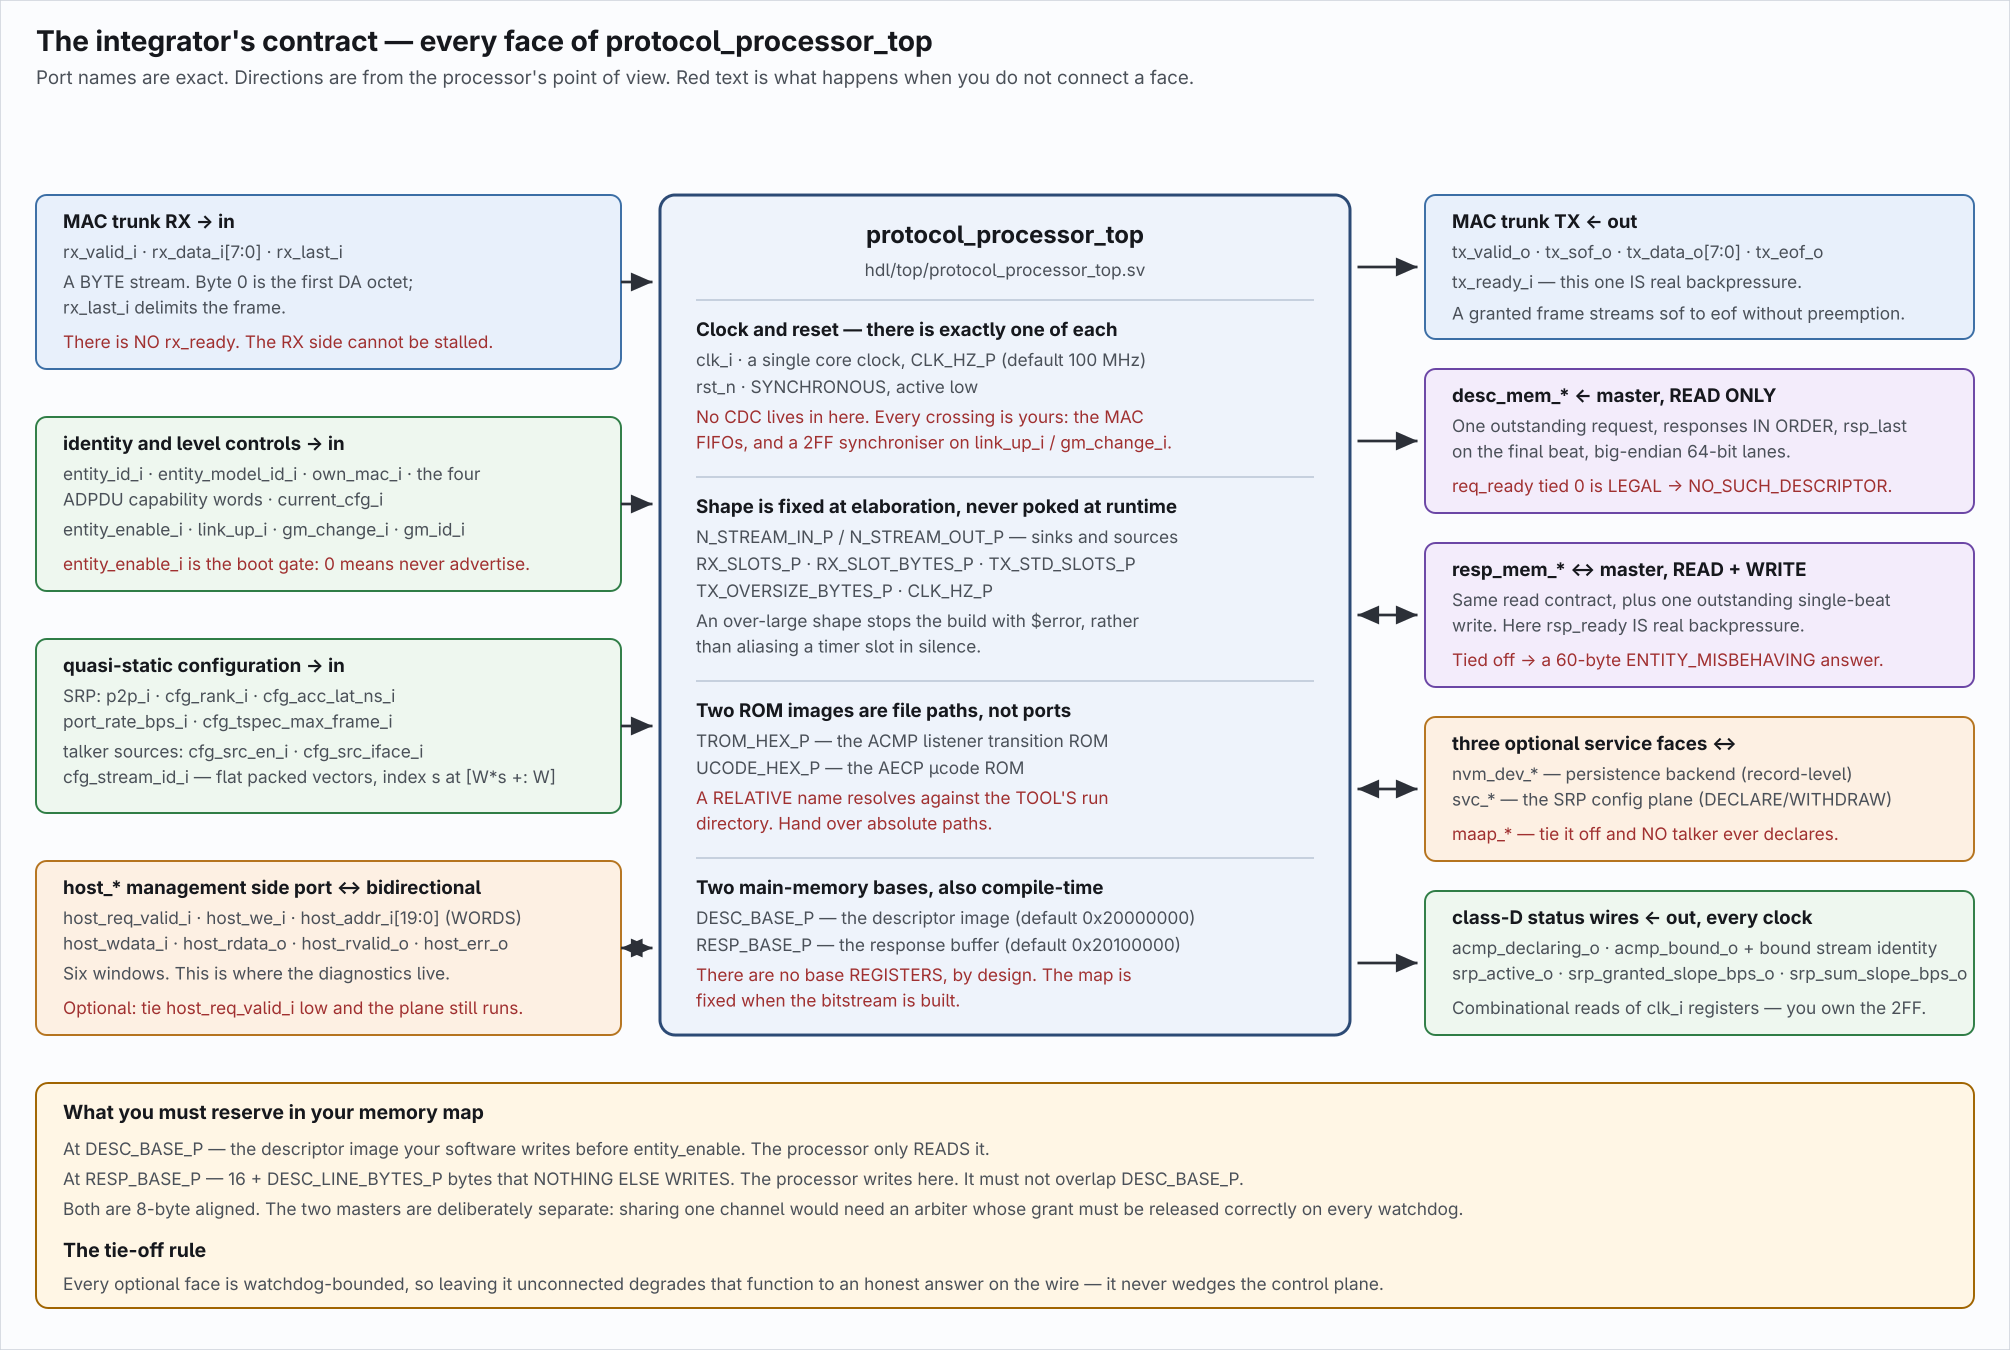
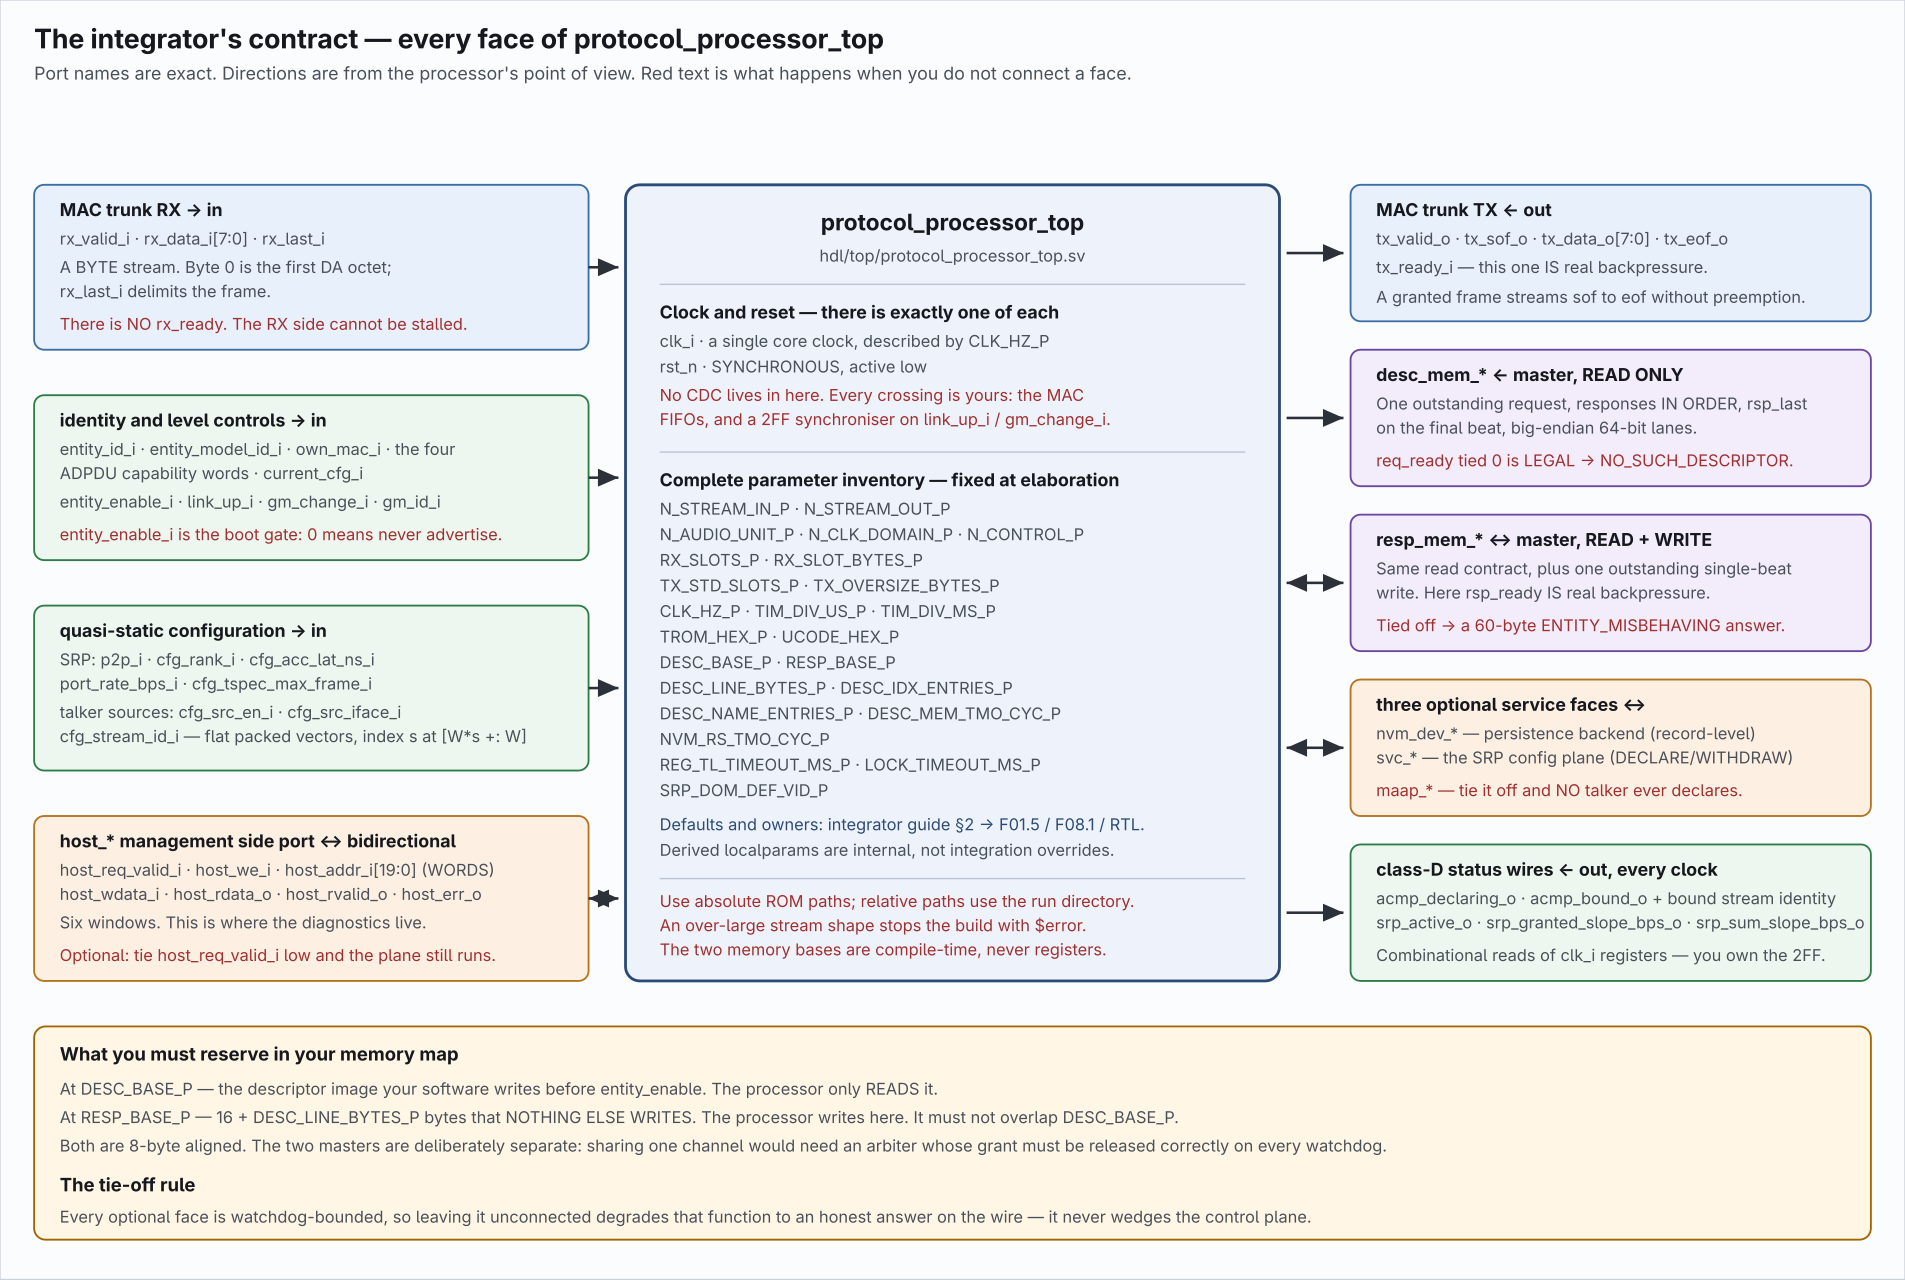
Complete the integration parameter inventory

diff --git a/scripts/check-integrator-params.py b/scripts/check-integrator-params.py
@@ -1,0 +1,128 @@
+#!/usr/bin/env python3
+# SPDX-License-Identifier: CERN-OHL-W-2.0
+"""Keep the complete guide/diagram parameter inventories equal to the RTL top.
+
+Only overridable parameters in the module header count, not derived localparams,
+instance bindings, or names mentioned in comments. The guide inventory is the
+first column of its section 2 table, not incidental mentions elsewhere. Diagram
+21's SVG is its editable master; only visible text in its inventory group counts.
+"""
+import argparse
+from collections import Counter
+import re
+import sys
+from pathlib import Path
+import xml.etree.ElementTree as ET
+
+ROOT = Path(__file__).resolve().parent.parent
+TOP = ROOT / "hdl/top/protocol_processor_top.sv"
+GUIDE = ROOT / "docs/guides/integrator.md"
+DIAGRAM = ROOT / "docs/diagrams/21-integration-faces.svg"
+
+
+def top_parameters(path: Path) -> list[str]:
+    # Mask strings and comments before looking for declaration syntax. In
+    # particular, punctuation inside a ROM filename must not split the header.
+    body = re.sub(r'"(?:\\.|[^"\\])*"|//[^\n]*|/\*.*?\*/', " ",
+                  path.read_text(encoding="utf-8"), flags=re.S)
+    start = re.search(r"\bmodule\s+protocol_processor_top\b.*?#\s*\(",
+                      body, re.S)
+    if not start:
+        raise ValueError("cannot find protocol_processor_top parameter header")
+    # Split only outer commas; defaults and derived localparams can contain
+    # nested calls, casts, concatenations and packed dimensions.
+    declarations, buf, depth = [], [], 0
+    for char in body[start.end():]:
+        if char == ")" and depth == 0:
+            declarations.append("".join(buf))
+            break
+        if char == "," and depth == 0:
+            declarations.append("".join(buf))
+            buf = []
+            continue
+        if char in "([{":
+            depth += 1
+        elif char in ")]}":
+            depth -= 1
+        buf.append(char)
+    else:
+        raise ValueError("unterminated parameter header")
+
+    names, kind = [], None
+    for declaration in declarations:
+        keyword = re.match(r"\s*(parameter|localparam)\b", declaration)
+        if keyword:
+            kind = keyword[1]
+        name = re.search(r"\b([A-Za-z_]\w*)\s*=", declaration)
+        if kind is None or not name:
+            raise ValueError(f"cannot parse declaration {declaration.strip()!r}")
+        if kind == "parameter":
+            names.append(name[1])
+    return names
+
+
+def guide_parameters(path: Path) -> list[str]:
+    body = path.read_text(encoding="utf-8")
+    section = re.search(r"^## 2\. Parameters\b.*?(?=^## |\Z)", body, re.M | re.S)
+    if not section:
+        raise ValueError("cannot find section 2 parameter inventory")
+    # Ignore example tables inside fenced blocks and commented-out rows.
+    table = re.sub(r"^```.*?^```[^\n]*|<!--.*?-->", "", section[0],
+                   flags=re.M | re.S)
+    names = []
+    for column in re.findall(r"^\|([^|]+)\|", table, re.M):
+        names.extend(re.findall(r"`([A-Za-z_]\w*)`", column))
+    return names
+
+
+def diagram_parameters(path: Path) -> list[str]:
+    root = ET.parse(path).getroot()
+    groups = root.findall(".//*[@id='integration-parameters']")
+    if len(groups) != 1:
+        raise ValueError("expected one integration-parameters inventory group")
+    visible = " ".join("".join(node.itertext())
+                       for node in groups[0].iter("{http://www.w3.org/2000/svg}text"))
+    return re.findall(r"\b[A-Za-z_]\w*_P\b", visible)
+
+
+def main() -> int:
+    parser = argparse.ArgumentParser(description=__doc__)
+    parser.add_argument("--top", type=Path, default=TOP)
+    parser.add_argument("--guide", type=Path, default=GUIDE,
+                        help="alternate guide, e.g. the pre-change version")
+    parser.add_argument("--diagram", type=Path, default=DIAGRAM)
+    args = parser.parse_args()
+    inventories, problems = {}, []
+    for label, read, path in (("top", top_parameters, args.top),
+                              ("guide", guide_parameters, args.guide),
+                              ("diagram", diagram_parameters, args.diagram)):
+        try:
+            names = read(path)
+        except (OSError, ValueError, ET.ParseError) as exc:
+            problems.append(f"{label}: {exc}")
+            continue
+        inventories[label] = set(names)
+        if not names:
+            problems.append(f"{label}: parsed no parameters")
+        for name, count in sorted(Counter(names).items()):
+            if count > 1:
+                problems.append(f"{label}: duplicate {name} ({count} occurrences)")
+
+    if inventories.get("top"):
+        for label in ("guide", "diagram"):
+            if label not in inventories:
+                continue
+            for name in sorted(inventories["top"] - inventories[label]):
+                problems.append(f"{label}: missing {name}")
+            for name in sorted(inventories[label] - inventories["top"]):
+                problems.append(f"{label}: extra {name}")
+    for problem in problems:
+        print(f"PARAMETERS FAIL: {problem}")
+    counts = ", ".join(f"{label} {len(names)}" for label, names in inventories.items())
+    print(f"parameters: {counts}, "
+          f"{'OK' if not problems else str(len(problems)) + ' FAILURES'}")
+    return 1 if problems else 0
+
+
+if __name__ == "__main__":
+    sys.exit(main())

diff --git a/docs/guides/integrator.md b/docs/guides/integrator.md
@@ -12,8 +12,9 @@ whole contract on one page, including what happens when you do not connect somet
 For what is inside the box, see
 [`../diagrams/20-rtl-dataflow.svg`](../diagrams/20-rtl-dataflow.svg).
 
-> The port names and defaults on this page are transcribed from the RTL. Where the
-> architecture documents describe an older interface, the RTL is authoritative and the
+> The port and parameter names on this page describe the RTL; section 2 links to
+> their authoritative homes instead of copying defaults. Where the architecture
+> documents describe an older interface, the RTL defines the implemented interface and the
 > divergence is listed in the
 > [HDL engineer guide](hdl-engineer.md#9-where-the-specification-and-the-tree-still-disagree).
 
@@ -44,26 +45,48 @@ able to run from a bridged management clock; the top instantiates it on `clk_i`.
 
 ## 2. Parameters — the shape is fixed when you build the bitstream
 
-Nothing here is writable at runtime, and that is deliberate.
+<a id="integration-parameters"></a>
 
-| Parameter | Default | What it sets |
+This is the **complete inventory of overridable parameters** on
+[`protocol_processor_top`](../../hdl/top/protocol_processor_top.sv), in declaration
+order. Nothing here is writable at runtime. Derived `localparam` declarations in
+the header are internal calculations, not integration overrides.
+
+The top's parameter declarations give the exact implemented default expressions.
+The table below names each parameter's documented owner: architectural parameter
+values and constraints stay in [F01.5](../architecture/01_overview.md#fig-01-params),
+protocol timing values stay in [F08.1](../architecture/08_timing.md#fig-08-constants),
+and implementation settings without a master-table entry stay in the top's RTL
+declaration and banner. These are references, not another table of values
+([single-source rule](../README.md#2-identifier-registries)). In particular, the
+stream counts in F01.5 are product choices; the top supplies implementation defaults.
+
+| Parameter | Authoritative home / documented owner | What it sets |
 |---|---|---|
-| `N_STREAM_IN_P` | 8 | Stream Inputs — sinks, listener machines, per-sink records |
-| `N_STREAM_OUT_P` | 8 | Stream Outputs — sources, talker gates, SRP declarations |
-| `RX_SLOTS_P` × `RX_SLOT_BYTES_P` | 4 × 576 | the RX payload pool |
-| `TX_STD_SLOTS_P` | 4 | standard TX slots (a fifth oversize slot always exists) |
-| `TX_OVERSIZE_BYTES_P` | 1600 | the oversize TX slot, for the responses Milan lets exceed the normal cap |
-| `CLK_HZ_P` | 100 MHz | the timer prescaler base |
-| `TIM_DIV_US_P` / `TIM_DIV_MS_P` | derived / 1000 | prescaler overrides. **Simulation only** — they exist so a testbench can compress time. |
-| `TROM_HEX_P` | `ltn_rom.hex` | the ACMP listener transition-ROM image |
-| `UCODE_HEX_P` | `ucode.hex` | the AECP µcode ROM image |
-| `DESC_BASE_P` | 0x20000000 | where the descriptor image lives in **your** memory |
-| `DESC_LINE_BYTES_P` | 576 | the on-chip line buffer for one located descriptor |
-| `DESC_IDX_ENTRIES_P` | 32 | cached index-map entries |
-| `DESC_NAME_ENTRIES_P` | 32 | name-table entries held on chip; set it from the generated image's `n_names`, up to 1024 |
-| `DESC_MEM_TMO_CYC_P` | 4096 | no-progress watchdog on the descriptor memory face, in clocks |
-| `RESP_BASE_P` | 0x20100000 | where the AECP response buffer lives in **your** memory |
-| `SRP_DOM_DEF_VID_P` | 2 | the Class A Domain VID the SRP engine declares at start-up and on every link-up, and returns to on link-down (Milan §4.2.7.2.1). A bridge's differing Class A Domain is still adopted at run time. **Keep it at 2 in a product build**: Milan fixes the value, and any other one exists only to prove this binding in verification. |
+| `N_STREAM_IN_P` | [F01.5](../architecture/01_overview.md#fig-01-params), `P-N-STREAM-IN` | Stream Inputs: sinks, listener machines, per-sink records |
+| `N_STREAM_OUT_P` | [F01.5](../architecture/01_overview.md#fig-01-params), `P-N-STREAM-OUT` | Stream Outputs: sources, talker gates, SRP declarations |
+| `N_AUDIO_UNIT_P` | [F01.5](../architecture/01_overview.md#fig-01-params), `P-N-AUDIO-UNITS` | Audio Unit rows in the AECP dynamic-state store, including sampling-rate settings; match the entity model |
+| `N_CLK_DOMAIN_P` | [F01.5](../architecture/01_overview.md#fig-01-params), `P-N-CLOCK-DOMAINS` | Clock Domain rows in the AECP dynamic-state store, including clock-source selections; match the entity model |
+| `N_CONTROL_P` | [Top declaration and banner](../../hdl/top/protocol_processor_top.sv); [AECP dynamic-state store](../../hdl/aecp/KL_aecp_dyn_state.sv) | IDENTIFY CONTROL rows and identify settings; match the entity model. This counts CONTROL descriptors, not registered controllers (`P-N-CONTROLLERS`). |
+| `RX_SLOTS_P` | [F01.5](../architecture/01_overview.md#fig-01-params), `P-RX-SLOTS` | Number of RX payload slots |
+| `RX_SLOT_BYTES_P` | [F01.5](../architecture/01_overview.md#fig-01-params), `P-RX-SLOT-BYTES` | Capacity of each RX payload slot |
+| `TX_STD_SLOTS_P` | [F01.5](../architecture/01_overview.md#fig-01-params), `P-TX-STD-SLOTS` | Standard TX slots; the oversize slot is additional |
+| `TX_OVERSIZE_BYTES_P` | [F01.5](../architecture/01_overview.md#fig-01-params), `P-TX-OVERSIZE-BYTES` | Oversize TX slot capacity for responses Milan permits beyond the normal cap |
+| `CLK_HZ_P` | [F01.5](../architecture/01_overview.md#fig-01-params), `P-CLK-HZ` | Core clock frequency used to derive the timer prescaler and restore watchdog defaults |
+| `TIM_DIV_US_P` | [Top declaration and banner](../../hdl/top/protocol_processor_top.sv); [F08.2 timebase](../architecture/08_timing.md#fig-08-timerhw) | Core-clock divider for the microsecond tick. **Simulation time compression only** when overriding the clock-derived expression. |
+| `TIM_DIV_MS_P` | [Top declaration and banner](../../hdl/top/protocol_processor_top.sv); [F08.2 timebase](../architecture/08_timing.md#fig-08-timerhw) | Microsecond-tick divider for the millisecond tick. **Simulation time compression only** when overriding. |
+| `TROM_HEX_P` | [Top declaration and banner](../../hdl/top/protocol_processor_top.sv); [listener ROM generator](../../hdl/acmp/rom/gen_ltn_rom.py) | File path to the ACMP listener transition-ROM image |
+| `UCODE_HEX_P` | [Top declaration and banner](../../hdl/top/protocol_processor_top.sv); [AECP µcode generator](../../hdl/aecp/ucode/gen_ucode.py) | File path to the AECP µcode ROM image |
+| `DESC_BASE_P` | [Top declaration and banner](../../hdl/top/protocol_processor_top.sv); [07 §3.3.1 memory contract](../architecture/07_memory_maps.md#331-realization-the-image-lives-in-main-memory-not-on-chip) | Base of the descriptor image in **your** memory |
+| `DESC_LINE_BYTES_P` | [Top declaration and banner](../../hdl/top/protocol_processor_top.sv); [07 §3.3.1 descriptor store](../architecture/07_memory_maps.md#331-realization-the-image-lives-in-main-memory-not-on-chip) | On-chip line capacity for one located descriptor; also sizes the response-buffer reservation |
+| `DESC_IDX_ENTRIES_P` | [Top declaration and banner](../../hdl/top/protocol_processor_top.sv); [07 §3.3.1 descriptor store](../architecture/07_memory_maps.md#331-realization-the-image-lives-in-main-memory-not-on-chip) | Cached index-map capacity, per (configuration, descriptor type) |
+| `DESC_NAME_ENTRIES_P` | [Top declaration and banner](../../hdl/top/protocol_processor_top.sv); [07 §3.3.1 descriptor store](../architecture/07_memory_maps.md#331-realization-the-image-lives-in-main-memory-not-on-chip) | Name-table capacity on chip; size from the generated image's `n_names` within the store's supported limits |
+| `DESC_MEM_TMO_CYC_P` | [Top declaration and bindings](../../hdl/top/protocol_processor_top.sv); [AECP engine](../../hdl/aecp/KL_aecp_engine.sv) | Watchdog budget in core clocks for descriptor and response memory, AECP gather waits, and the listener's stream-command handshake |
+| `NVM_RS_TMO_CYC_P` | [F01.5](../architecture/01_overview.md#fig-01-params), `P-NVM-RS-TMO-CYC`; [F08.1](../architecture/08_timing.md#fig-08-constants), `T-NVM-RS-DEADLINE` | Boot restore read-phase no-progress deadline, in core clocks; size above the slowest record read on the NVM device face |
+| `REG_TL_TIMEOUT_MS_P` | [F08.1](../architecture/08_timing.md#fig-08-constants), `T-NOTIF-TIMELIMITED`; [top declaration](../../hdl/top/protocol_processor_top.sv) | TIME_LIMITED registration expiry in the AECP notification registry, in milliseconds of the possibly compressed timebase. Shortened overrides are for verification. |
+| `LOCK_TIMEOUT_MS_P` | [F08.1](../architecture/08_timing.md#fig-08-constants), `T-LOCK-UNLOCK`; [top declaration](../../hdl/top/protocol_processor_top.sv) | ENTITY lock auto-unlock deadline in the AECP notification block, in milliseconds of the possibly compressed timebase. Shortened overrides are for verification. |
+| `RESP_BASE_P` | [Top declaration and banner](../../hdl/top/protocol_processor_top.sv); [07 §3.3.2 response-buffer contract](../architecture/07_memory_maps.md#332-the-other-main-memory-region-the-aecp-response-buffer) | Base of the AECP response buffer in **your** memory |
+| `SRP_DOM_DEF_VID_P` | [F01.5](../architecture/01_overview.md#fig-01-params), `P-SRP-DOM-DEF-VID`; [F10.2 Domain FSM](../architecture/10_srp_engine.md#fig-10-domsm) | Class A Domain VID declared at startup and link-up, and restored on link-down. A bridge's differing Class A Domain is adopted at runtime. **Keep the F01.5 Milan value in a product build**; alternatives are verification fixtures. |
 
 Three traps worth stating plainly:
 
@@ -77,8 +100,9 @@ Three traps worth stating plainly:
 3. **A one-stream shape is supported.** Index widths are clamped so a shape of one does
    not declare a negative-width vector.
 
-Parameter identities and ranges are owned by
-[`01_overview.md` §7](../architecture/01_overview.md#7-parameter-master-table-f015).
+[`scripts/check-integrator-params.py`](../../scripts/check-integrator-params.py)
+compares this table and diagram 21's parameter inventory with the top's declarations.
+It runs in the CI documentation gates and in `make check`.
 
 ---
 

diff --git a/docs/diagrams/README.md b/docs/diagrams/README.md
@@ -57,6 +57,18 @@ Overlap, clipped text and lines running through boxes are invisible in the XML.
 rsvg-convert -w 1500 -o /tmp/check.png docs/diagrams/20-rtl-dataflow.svg
 ```
 
+For diagram 21, the SVG above is the editable master and its committed PNG is an
+export. After editing the master, regenerate the PNG with the same renderer:
+
+```sh
+rsvg-convert -w 1905 -o docs/diagrams/21-integration-faces.png docs/diagrams/21-integration-faces.svg
+```
+
+Its `integration-parameters` group lists every overridable top-level parameter;
+[`check-integrator-params.py`](../../scripts/check-integrator-params.py) compares
+that visible inventory and the integrator guide's section 2 table with the RTL
+declarations. Defaults remain at the owners linked from the guide.
+
 Check for overlapping text, labels escaping their box, arrows landing on the wrong block,
 and legibility at normal size. Every one of these carries an opaque light background so it
 reads on both light and dark page themes.
